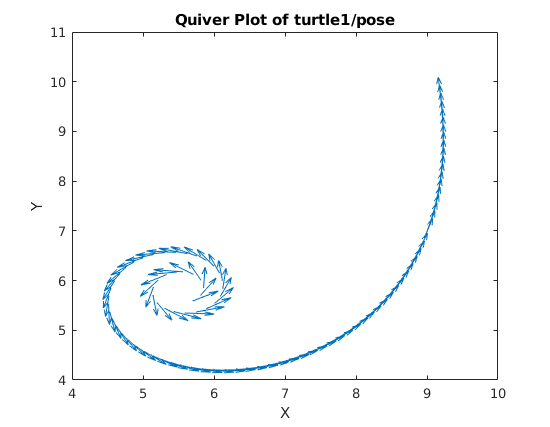
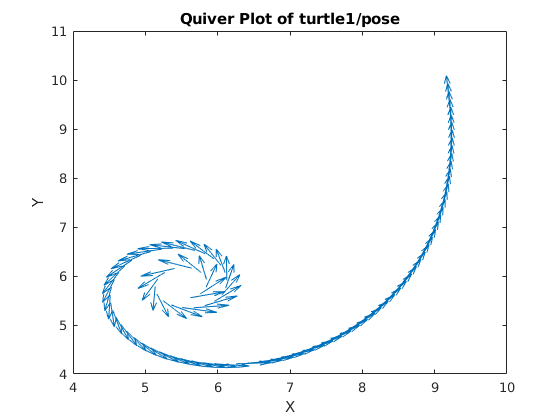
Adding matlab to the repository

diff --git a/matlab/plotbag.m b/matlab/plotbag.m
@@ -21,10 +21,12 @@ ts = timeseries(bagselect,'X','Y','Theta','LinearVelocity','AngularVelocity');
 ts1 = timeseries(bagselect,'X','Y');
 ts2 = timeseries(bagselect,'Theta');
 
-x = ts.data(:,1);
-y = ts.data(:,2);
-vel = ts.data(:,4);
-th = ts.data(:,3);
+x = ts.data(626:2358,1);
+y = ts.data(626:2358,2);
+vel = ts.data(626:2358,4);
+th = ts.data(626:2358,3);
+t=ts.time-ts.time(1);
+t=t(626:2358);
 
 % x is the x position of the turtle
 % y is the y position of the turtle
@@ -36,10 +38,12 @@ v = vel.*sin(th);
 ii = 1:10:length(x);  % Decimate the data so that it plot only every Nth point.
 
 figure
-plot(ts1); title('X & Y vs Time');
-xlabel('Time (sec)'); ylabel('X & Y'); legend({'X','Y'});
+plot(t,x); title('X & Y vs Time');
+xlabel('Time (sec)'); ylabel('X & Y'); 
+hold on
+plot(t,y); legend({'X','Y'}); hold off
 figure
-plot(ts2); title('Heading Angle (theta) vs Time');
+plot(t,th); title('Heading Angle (theta) vs Time');
 xlabel('Time (sec)'); ylabel('theta'); legend({'theta'});
 figure
 quiver(x(ii),y(ii),u(ii),v(ii)); title('Quiver Plot of turtle1/pose');
